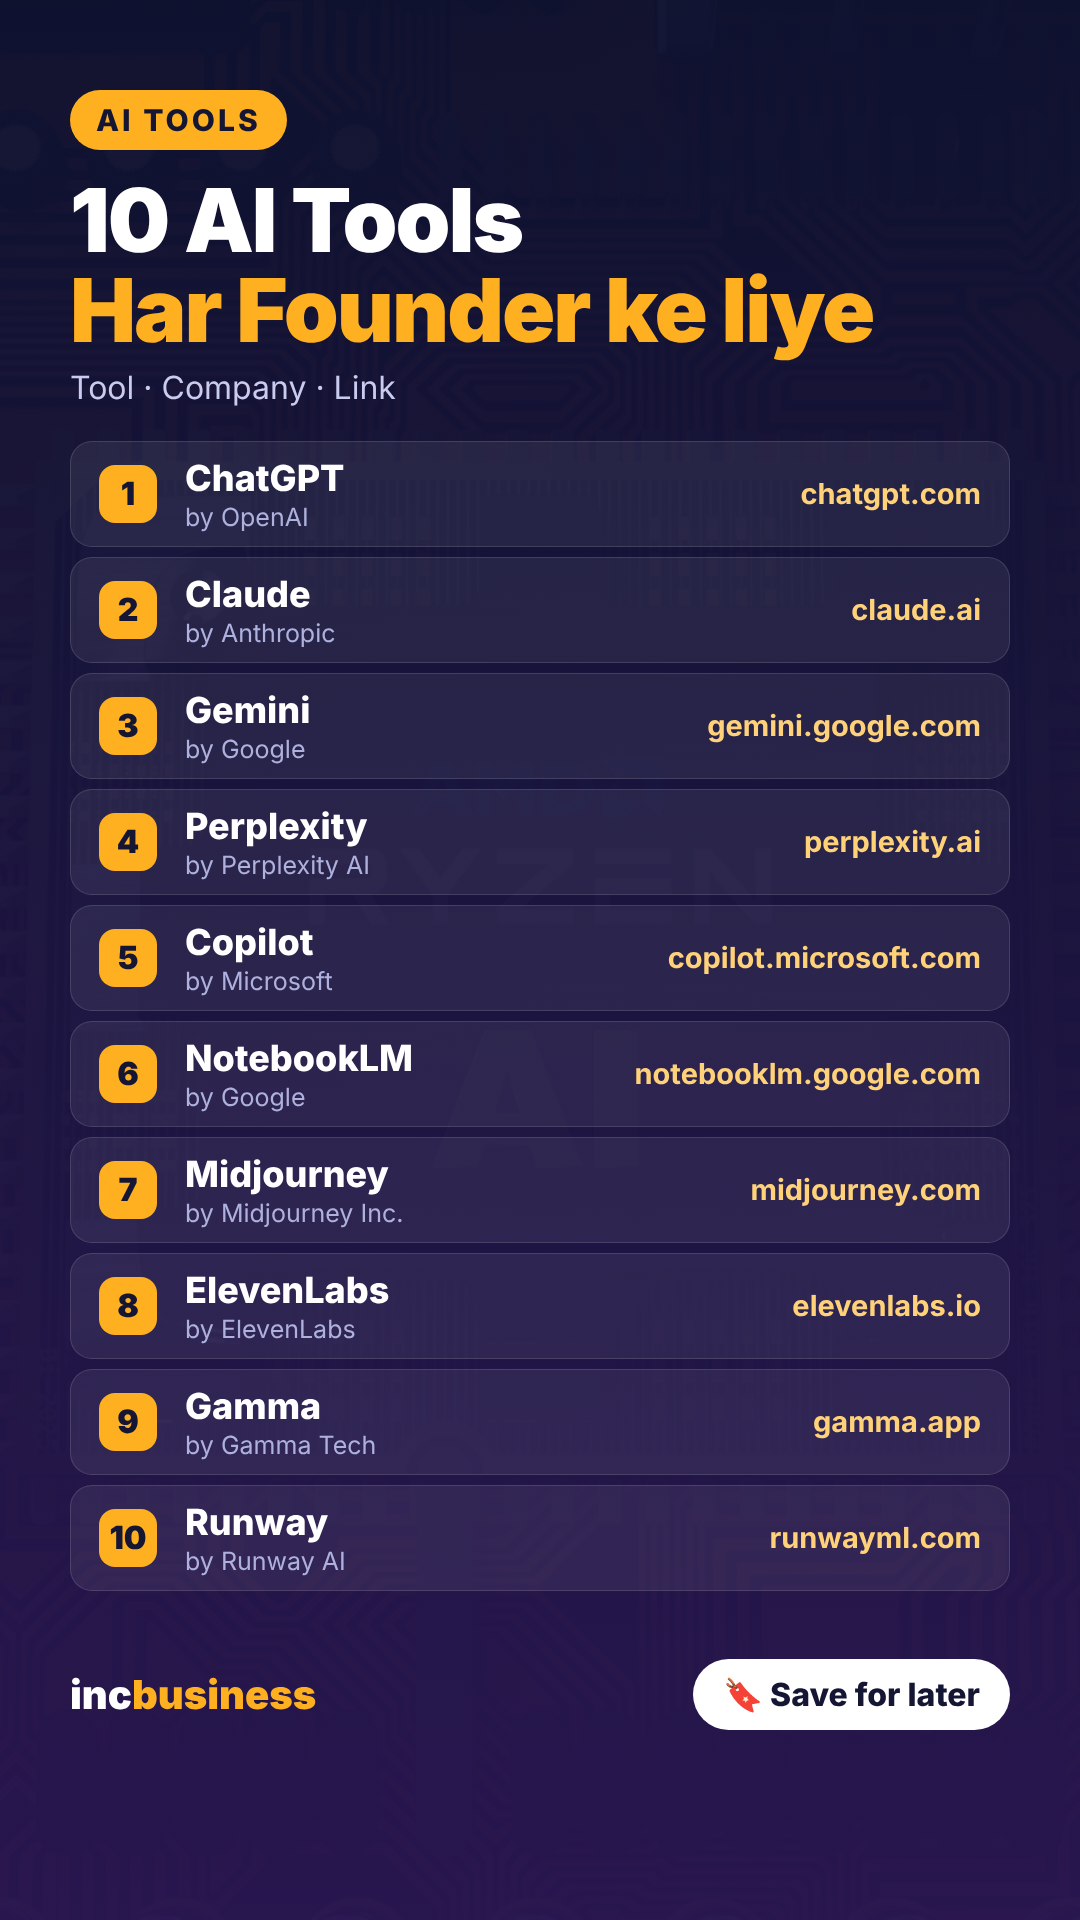
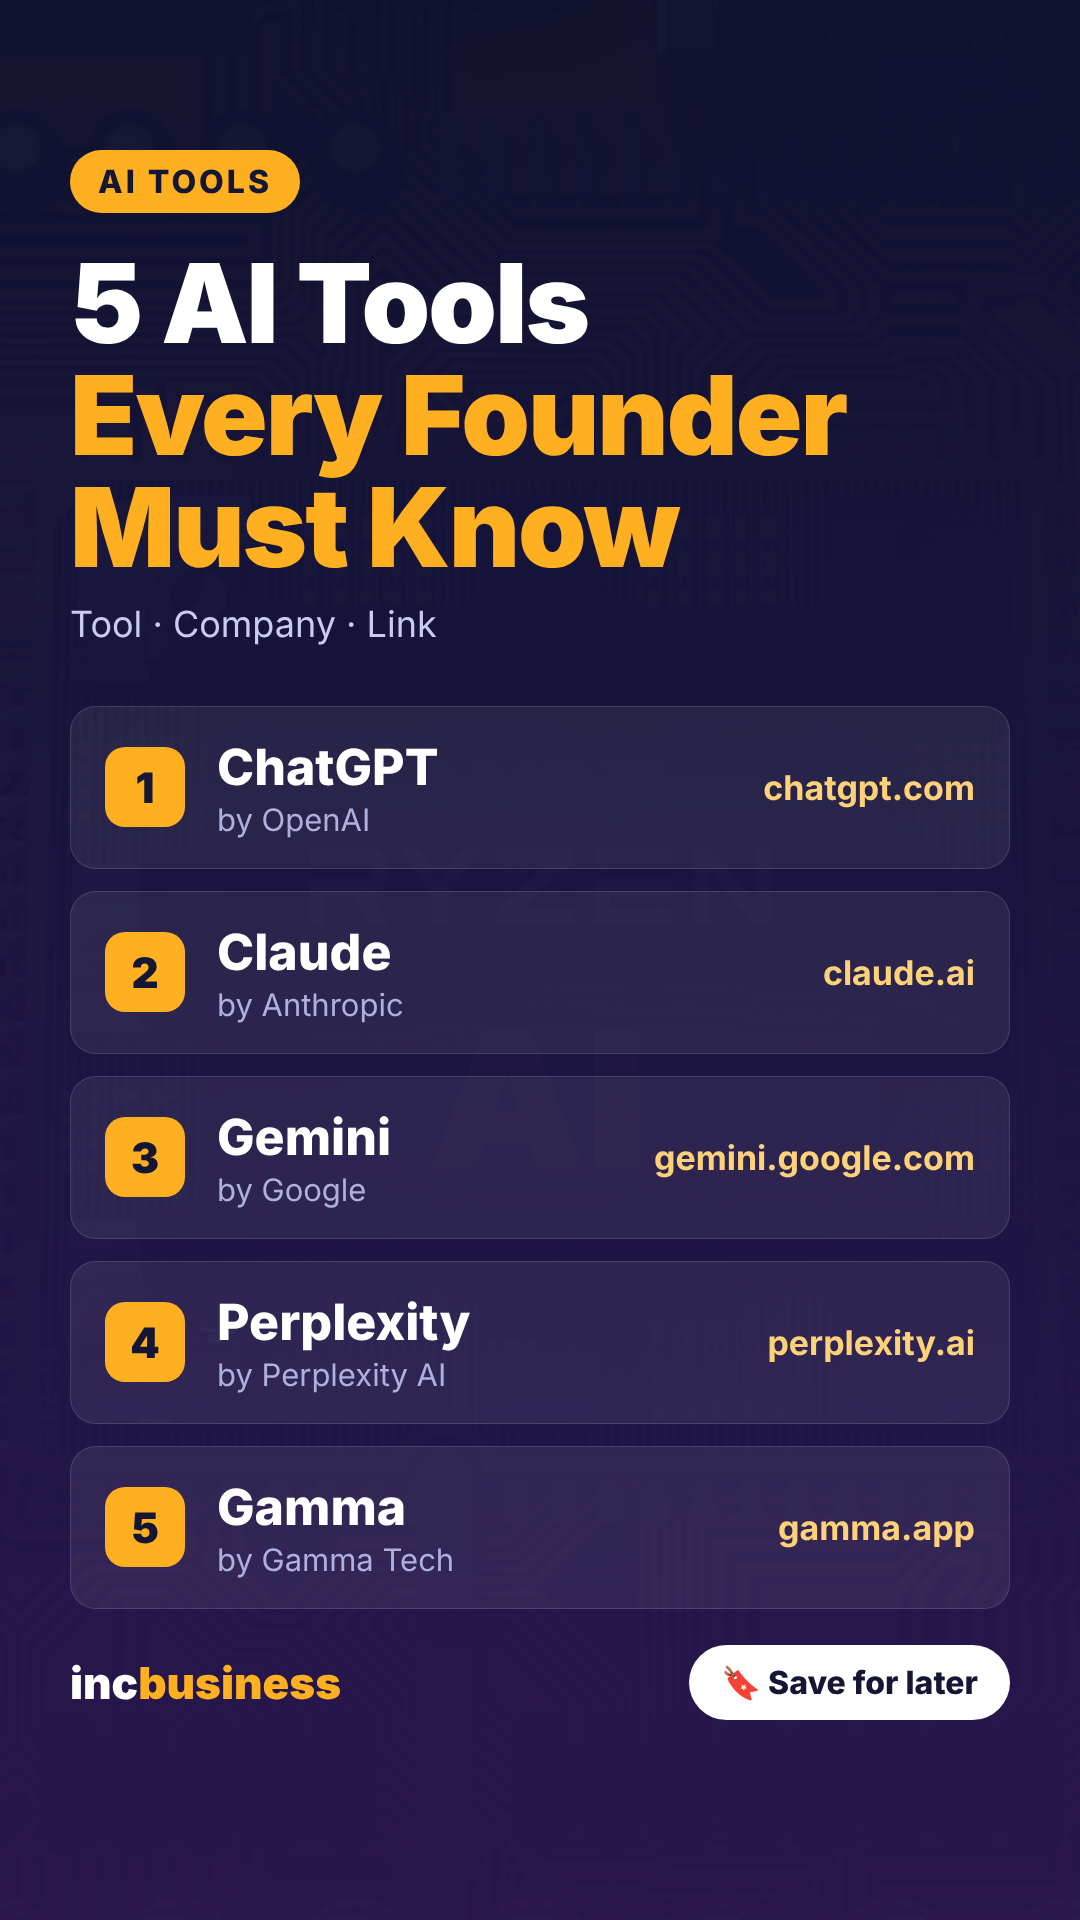
Update AI tools reel: English headline, top 5 tools
Claude-Session: https://claude.ai/code/session_017U6BpN2fuEgKcXjaoDaJC9

diff --git a/reels/ai-tools-list.html b/reels/ai-tools-list.html
@@ -2,27 +2,27 @@
 *{margin:0;padding:0;box-sizing:border-box}
 body{width:1080px;height:1920px;font-family:Inter,sans-serif;color:#fff;overflow:hidden;
 background:linear-gradient(180deg,rgba(14,18,48,.97),rgba(40,22,80,.98)),url(../backgrounds/ai.jpg) center/cover;}
-.wrap{padding:90px 70px 0}
-.tag{display:inline-block;background:#FFB020;color:#141633;font-weight:800;font-size:30px;letter-spacing:3px;padding:12px 26px;border-radius:40px}
-h1{font-size:88px;font-weight:900;line-height:1.02;margin:26px 0 12px;letter-spacing:-2px}
+.wrap{padding:150px 70px 0}
+.tag{display:inline-block;background:#FFB020;color:#141633;font-weight:800;font-size:32px;letter-spacing:3px;padding:12px 28px;border-radius:40px}
+h1{font-size:110px;font-weight:900;line-height:1.02;margin:34px 0 18px;letter-spacing:-2px}
 h1 span{color:#FFB020}
-.sub{font-size:32px;color:#C9CBEF;margin-bottom:34px}
-.row{display:flex;align-items:center;background:rgba(255,255,255,.07);border:1px solid rgba(255,255,255,.13);border-radius:22px;padding:14px 28px;margin-bottom:10px}
-.n{width:58px;height:58px;border-radius:16px;background:#FFB020;color:#141633;font-weight:900;font-size:32px;display:flex;align-items:center;justify-content:center;margin-right:28px;flex:none}
+.sub{font-size:36px;color:#C9CBEF;margin-bottom:60px}
+.row{display:flex;align-items:center;background:rgba(255,255,255,.07);border:1px solid rgba(255,255,255,.13);border-radius:26px;padding:30px 34px;margin-bottom:22px}
+.n{width:80px;height:80px;border-radius:20px;background:#FFB020;color:#141633;font-weight:900;font-size:42px;display:flex;align-items:center;justify-content:center;margin-right:32px;flex:none}
 .t{flex:1}
-.name{font-size:36px;font-weight:800}
-.co{font-size:25px;color:#AEB1DD;margin-top:2px}
-.link{font-size:29px;font-weight:700;color:#FFD27A;text-align:right}
-.foot{position:absolute;bottom:190px;left:70px;right:70px;display:flex;justify-content:space-between;align-items:center;font-size:32px}
-.foot b{font-size:40px;font-weight:900}.foot b span{color:#FFB020}
-.save{background:#fff;color:#141633;font-weight:800;padding:16px 30px;border-radius:40px}
+.name{font-size:50px;font-weight:800}
+.co{font-size:31px;color:#AEB1DD;margin-top:4px}
+.link{font-size:34px;font-weight:700;color:#FFD27A;text-align:right}
+.foot{position:absolute;bottom:200px;left:70px;right:70px;display:flex;justify-content:space-between;align-items:center;font-size:32px}
+.foot b{font-size:44px;font-weight:900}.foot b span{color:#FFB020}
+.save{background:#fff;color:#141633;font-weight:800;padding:18px 32px;border-radius:40px}
 </style></head><body><div class="wrap">
 <div class="tag">AI TOOLS</div>
-<h1>10 AI Tools<br><span>Har Founder ke liye</span></h1>
+<h1>5 AI Tools<br><span>Every Founder<br>Must Know</span></h1>
 <div class="sub">Tool · Company · Link</div>
 <div id="list"></div></div>
 <div class="foot"><b>inc<span>business</span></b><div class="save">🔖 Save for later</div></div>
 <script>
-const d=[["ChatGPT","OpenAI","chatgpt.com"],["Claude","Anthropic","claude.ai"],["Gemini","Google","gemini.google.com"],["Perplexity","Perplexity AI","perplexity.ai"],["Copilot","Microsoft","copilot.microsoft.com"],["NotebookLM","Google","notebooklm.google.com"],["Midjourney","Midjourney Inc.","midjourney.com"],["ElevenLabs","ElevenLabs","elevenlabs.io"],["Gamma","Gamma Tech","gamma.app"],["Runway","Runway AI","runwayml.com"]];
+const d=[["ChatGPT","OpenAI","chatgpt.com"],["Claude","Anthropic","claude.ai"],["Gemini","Google","gemini.google.com"],["Perplexity","Perplexity AI","perplexity.ai"],["Gamma","Gamma Tech","gamma.app"]];
 document.getElementById('list').innerHTML=d.map((r,i)=>`<div class="row"><div class="n">${i+1}</div><div class="t"><div class="name">${r[0]}</div><div class="co">by ${r[1]}</div></div><div class="link">${r[2]}</div></div>`).join('');
 </script></body></html>
